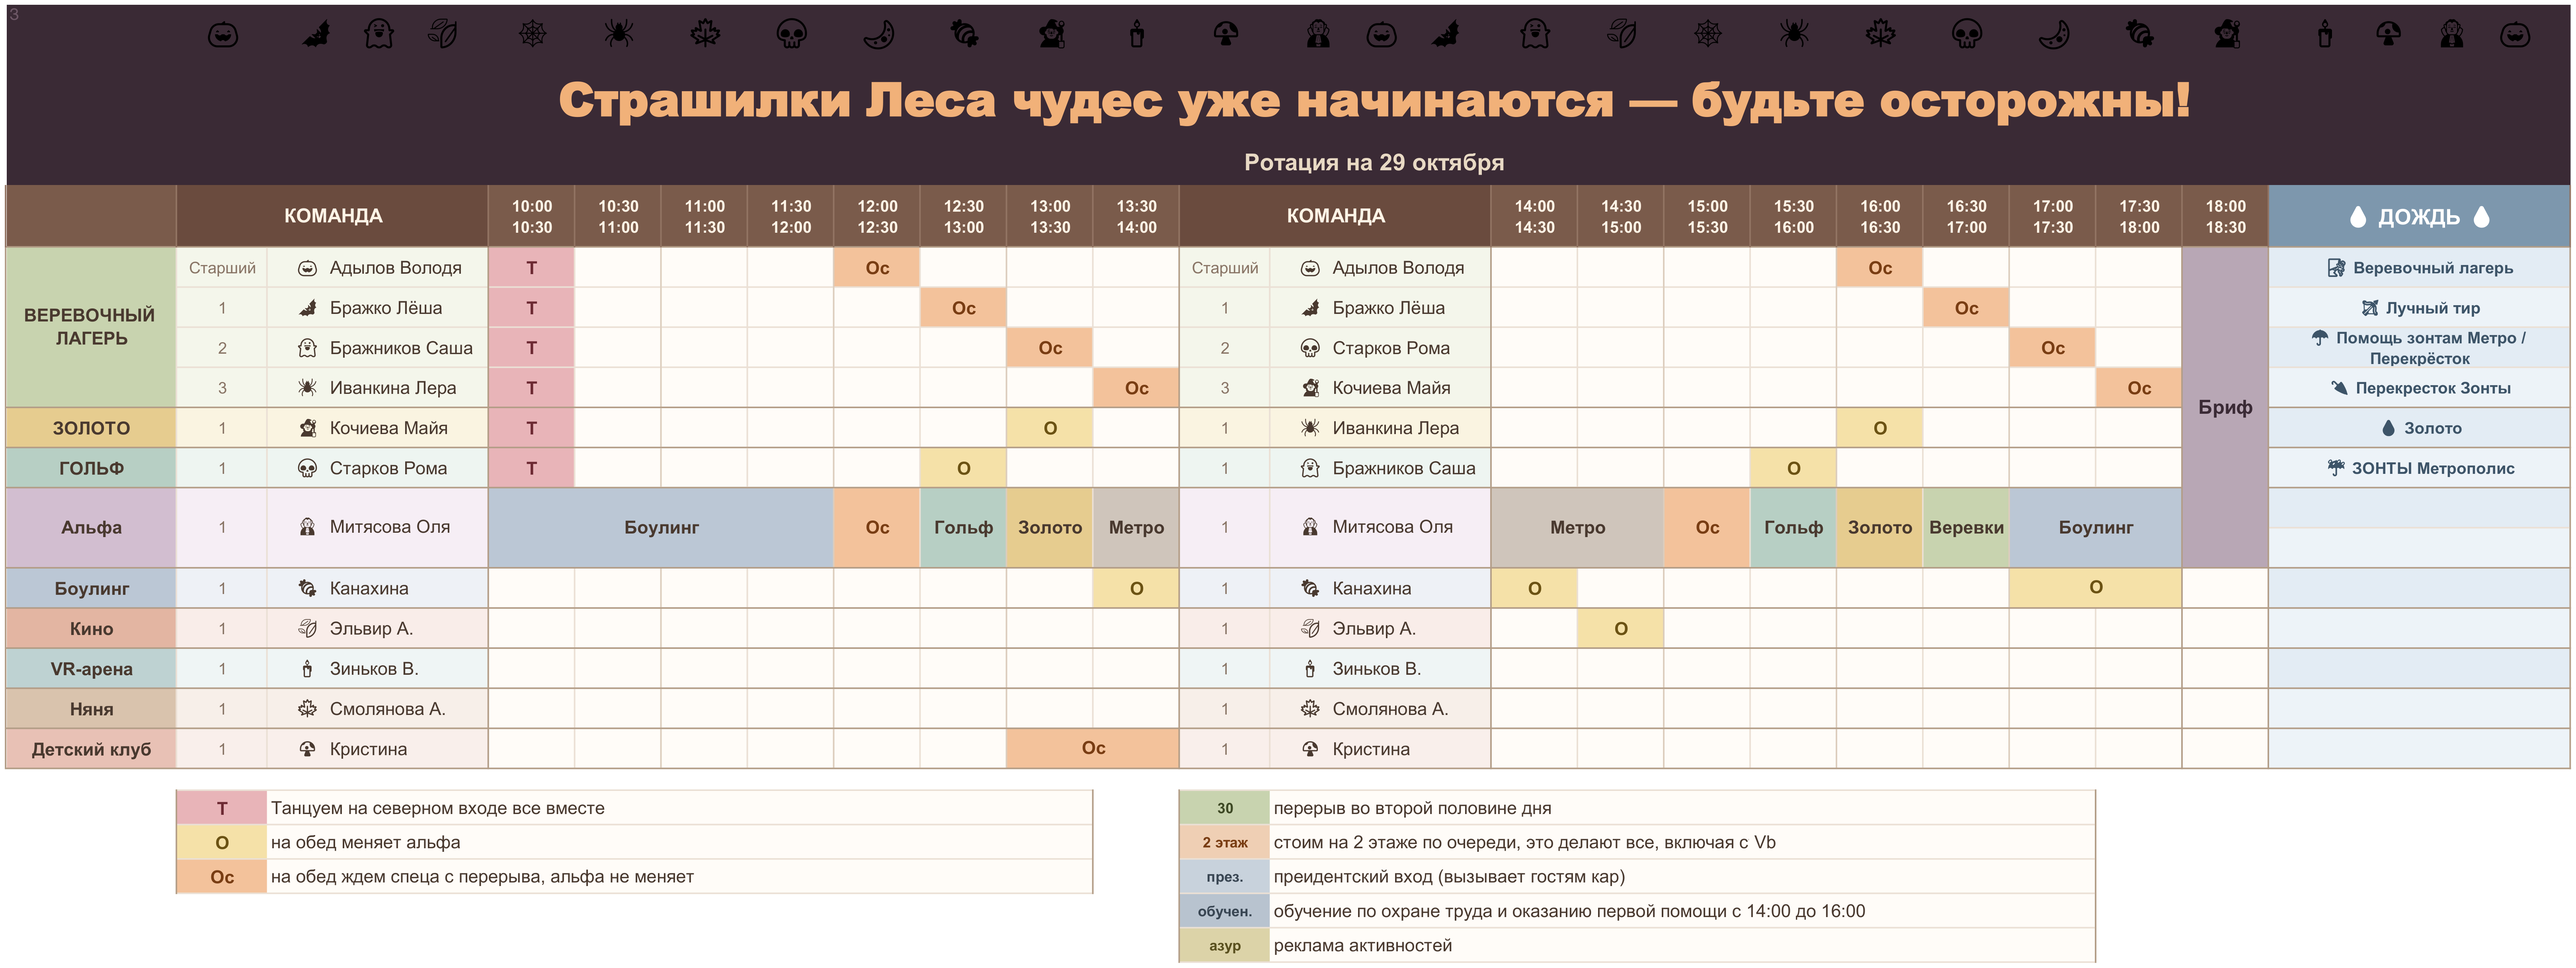
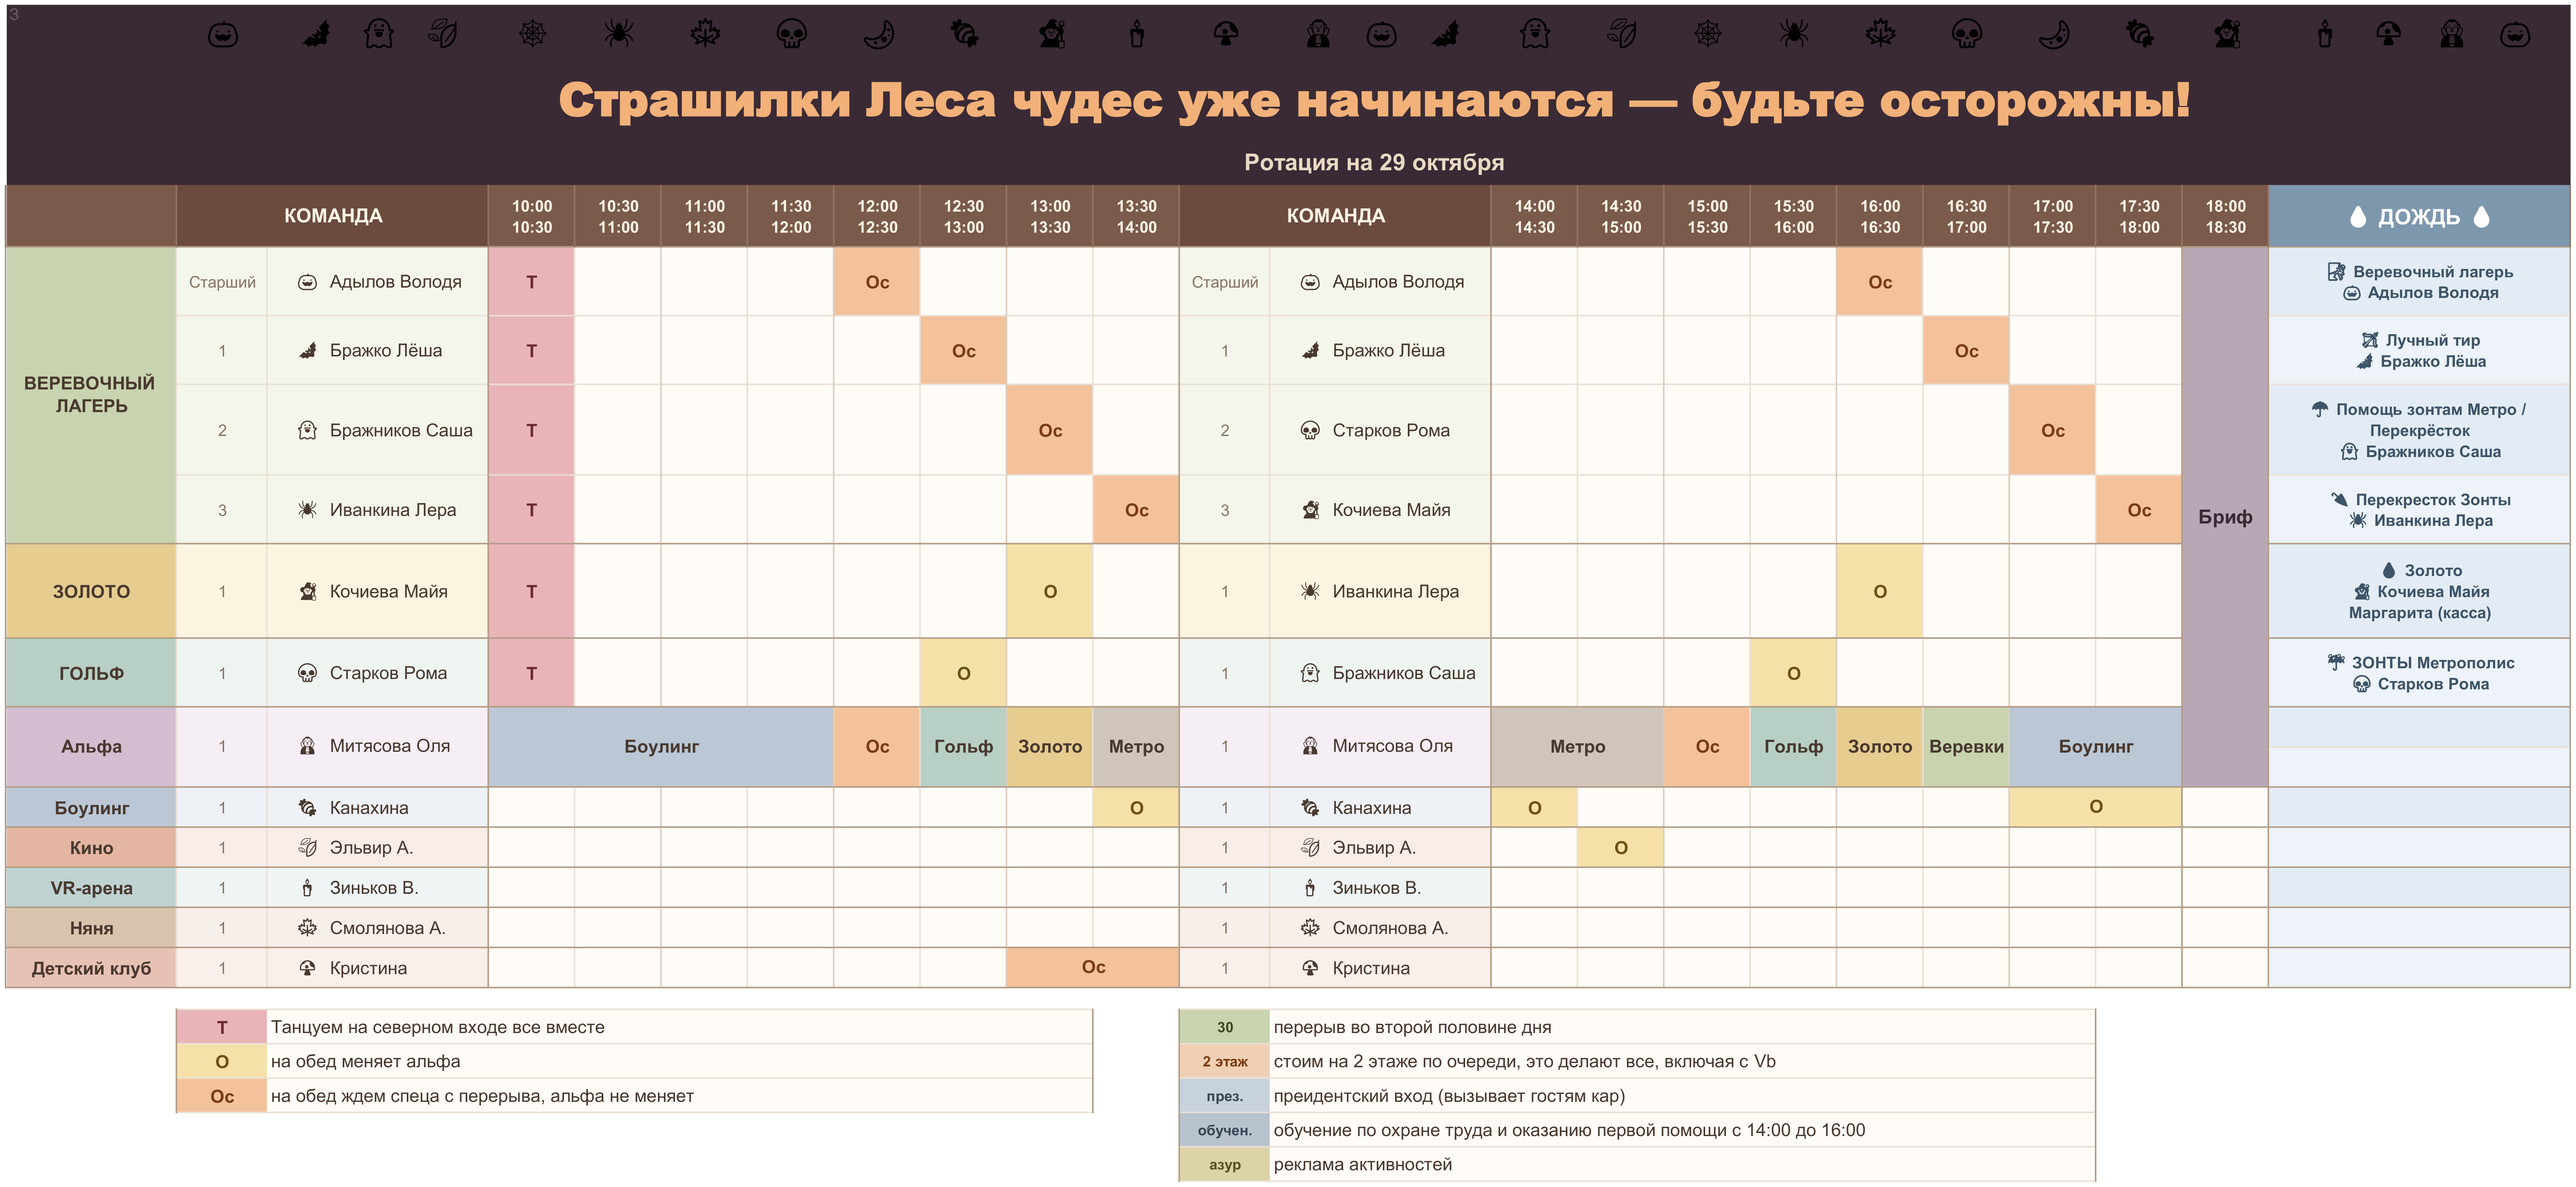
v113: состав Рейнджеров в дожде на картинках

diff --git a/sw.js b/sw.js
@@ -1,5 +1,5 @@
-const C='dw-v112';
-self.addEventListener('install',e=>{e.waitUntil(caches.open(C).then(c=>c.addAll(['./','index.html','styles.css?v=112','app.js?v=112','dgx.js?v=112','ext1.js?v=112','ext2.js?v=112','ext3.js?v=112','ext4.js?v=112','today.js?v=112','roted.js?v=112','xlsx.js?v=112','stickers/logo.webp','stickers/acorn.svg','stickers/balloon.svg','stickers/butterfly.svg','stickers/cherry.svg','stickers/cupcake.svg','stickers/drum.svg','stickers/flower.svg','stickers/leaf.svg','stickers/moon.svg','stickers/mushroom.svg','stickers/paw.svg','stickers/pumpkin.svg','stickers/rainbow.svg','stickers/snow.svg','stickers/star.svg','stickers/sun.svg','stickers/umbrella.svg','stickers/drop.svg','stickers/mountain.svg','stickers/wind.svg','stickers/city.svg','stickers/dome.svg','stickers/mascot-hi.webp','stickers/mascot-balloon.webp','stickers/sunglasses.webp','stickers/cloud.webp','stickers/tree.webp','stickers/smile.webp','stickers/sparkle.webp','stickers/burst.webp','stickers/bird.webp','stickers/heart.webp','stickers/thumb.webp','rep.js?v=112','plan.js?v=112','grow.js?v=112','pet.js?v=112','game.js?v=112','gacha.js?v=112','gacha2.js?v=112','gacha3.js?v=112','prof.js?v=112','brief.js?v=112','fx.js?v=112','qc.js?v=112','push.js?v=112','tour.js?v=112','config.js?v=112','logo.js?v=112','manifest.webmanifest','icons/icon.svg'])));self.skipWaiting()});
+const C='dw-v113';
+self.addEventListener('install',e=>{e.waitUntil(caches.open(C).then(c=>c.addAll(['./','index.html','styles.css?v=113','app.js?v=113','dgx.js?v=113','ext1.js?v=113','ext2.js?v=113','ext3.js?v=113','ext4.js?v=113','today.js?v=113','roted.js?v=113','xlsx.js?v=113','stickers/logo.webp','stickers/acorn.svg','stickers/balloon.svg','stickers/butterfly.svg','stickers/cherry.svg','stickers/cupcake.svg','stickers/drum.svg','stickers/flower.svg','stickers/leaf.svg','stickers/moon.svg','stickers/mushroom.svg','stickers/paw.svg','stickers/pumpkin.svg','stickers/rainbow.svg','stickers/snow.svg','stickers/star.svg','stickers/sun.svg','stickers/umbrella.svg','stickers/drop.svg','stickers/mountain.svg','stickers/wind.svg','stickers/city.svg','stickers/dome.svg','stickers/mascot-hi.webp','stickers/mascot-balloon.webp','stickers/sunglasses.webp','stickers/cloud.webp','stickers/tree.webp','stickers/smile.webp','stickers/sparkle.webp','stickers/burst.webp','stickers/bird.webp','stickers/heart.webp','stickers/thumb.webp','rep.js?v=113','plan.js?v=113','grow.js?v=113','pet.js?v=113','game.js?v=113','gacha.js?v=113','gacha2.js?v=113','gacha3.js?v=113','prof.js?v=113','brief.js?v=113','fx.js?v=113','qc.js?v=113','push.js?v=113','tour.js?v=113','config.js?v=113','logo.js?v=113','manifest.webmanifest','icons/icon.svg'])));self.skipWaiting()});
 self.addEventListener('activate',e=>e.waitUntil(caches.keys().then(async ks=>{const old=ks.filter(k=>k!==C);await Promise.all(old.map(k=>caches.delete(k)));await self.clients.claim();
   // обновление: открытые окна со старой версией перезагружаем сами, чтобы никто не сидел на старом коде
   if(old.length){const cs=await self.clients.matchAll({type:'window'});cs.forEach(c=>{try{c.navigate(c.url)}catch(_){}})}})));

diff --git a/index.html b/index.html
@@ -6,7 +6,7 @@
 <script>try{var d=document.documentElement;d.dataset.theme=localStorage.getItem("dw-theme")||"autumn-warm";var k=localStorage.getItem("dw-dark");d.dataset.dark=(k==="1"||(k==="auto"&&matchMedia("(prefers-color-scheme:dark)").matches))?"1":"0"}catch(e){}</script>
 <link rel="manifest" href="manifest.webmanifest"><link rel="icon" href="icons/icon.svg"><link rel="apple-touch-icon" href="icons/icon-180.png">
 <link rel="stylesheet" href="/v/fonts" media="print" onload="this.media='all'"><noscript><link rel="stylesheet" href="/v/fonts"></noscript>
-<link rel="stylesheet" href="styles.css?v=112">
+<link rel="stylesheet" href="styles.css?v=113">
 </head><body>
 <div id="splash" aria-hidden="true"></div>
 <div id="bgs" aria-hidden="true"></div>
@@ -35,5 +35,5 @@
   <button data-tab="feedback" class="dsk">💡<span>Обратная связь</span><i hidden></i></button>
 </nav>
 <script src="/v/sbjs"></script><script>window.supabase||document.write('<script src="https://cdn.jsdelivr.net/npm/@supabase/supabase-js@2.57.4/dist/umd/supabase.min.js"><\/script>')</script>
-<script src="config.js?v=112"></script><script src="logo.js?v=112"></script><script src="app.js?v=112"></script><script src="qc.js?v=112"></script><script src="dgx.js?v=112"></script><script src="ext1.js?v=112"></script><script src="ext2.js?v=112"></script><script src="ext3.js?v=112"></script><script src="ext4.js?v=112"></script><script src="today.js?v=112"></script><script src="roted.js?v=112"></script><script src="xlsx.js?v=112"></script><script src="rep.js?v=112"></script><script src="plan.js?v=112"></script><script src="grow.js?v=112"></script><script src="pet.js?v=112"></script><script src="game.js?v=112"></script><script src="gacha.js?v=112"></script><script src="gacha2.js?v=112"></script><script src="gacha3.js?v=112"></script><script src="prof.js?v=112"></script><script src="brief.js?v=112"></script><script src="fx.js?v=112"></script><script src="push.js?v=112"></script><script src="tour.js?v=112"></script>
+<script src="config.js?v=113"></script><script src="logo.js?v=113"></script><script src="app.js?v=113"></script><script src="qc.js?v=113"></script><script src="dgx.js?v=113"></script><script src="ext1.js?v=113"></script><script src="ext2.js?v=113"></script><script src="ext3.js?v=113"></script><script src="ext4.js?v=113"></script><script src="today.js?v=113"></script><script src="roted.js?v=113"></script><script src="xlsx.js?v=113"></script><script src="rep.js?v=113"></script><script src="plan.js?v=113"></script><script src="grow.js?v=113"></script><script src="pet.js?v=113"></script><script src="game.js?v=113"></script><script src="gacha.js?v=113"></script><script src="gacha2.js?v=113"></script><script src="gacha3.js?v=113"></script><script src="prof.js?v=113"></script><script src="brief.js?v=113"></script><script src="fx.js?v=113"></script><script src="push.js?v=113"></script><script src="tour.js?v=113"></script>
 </body></html>
